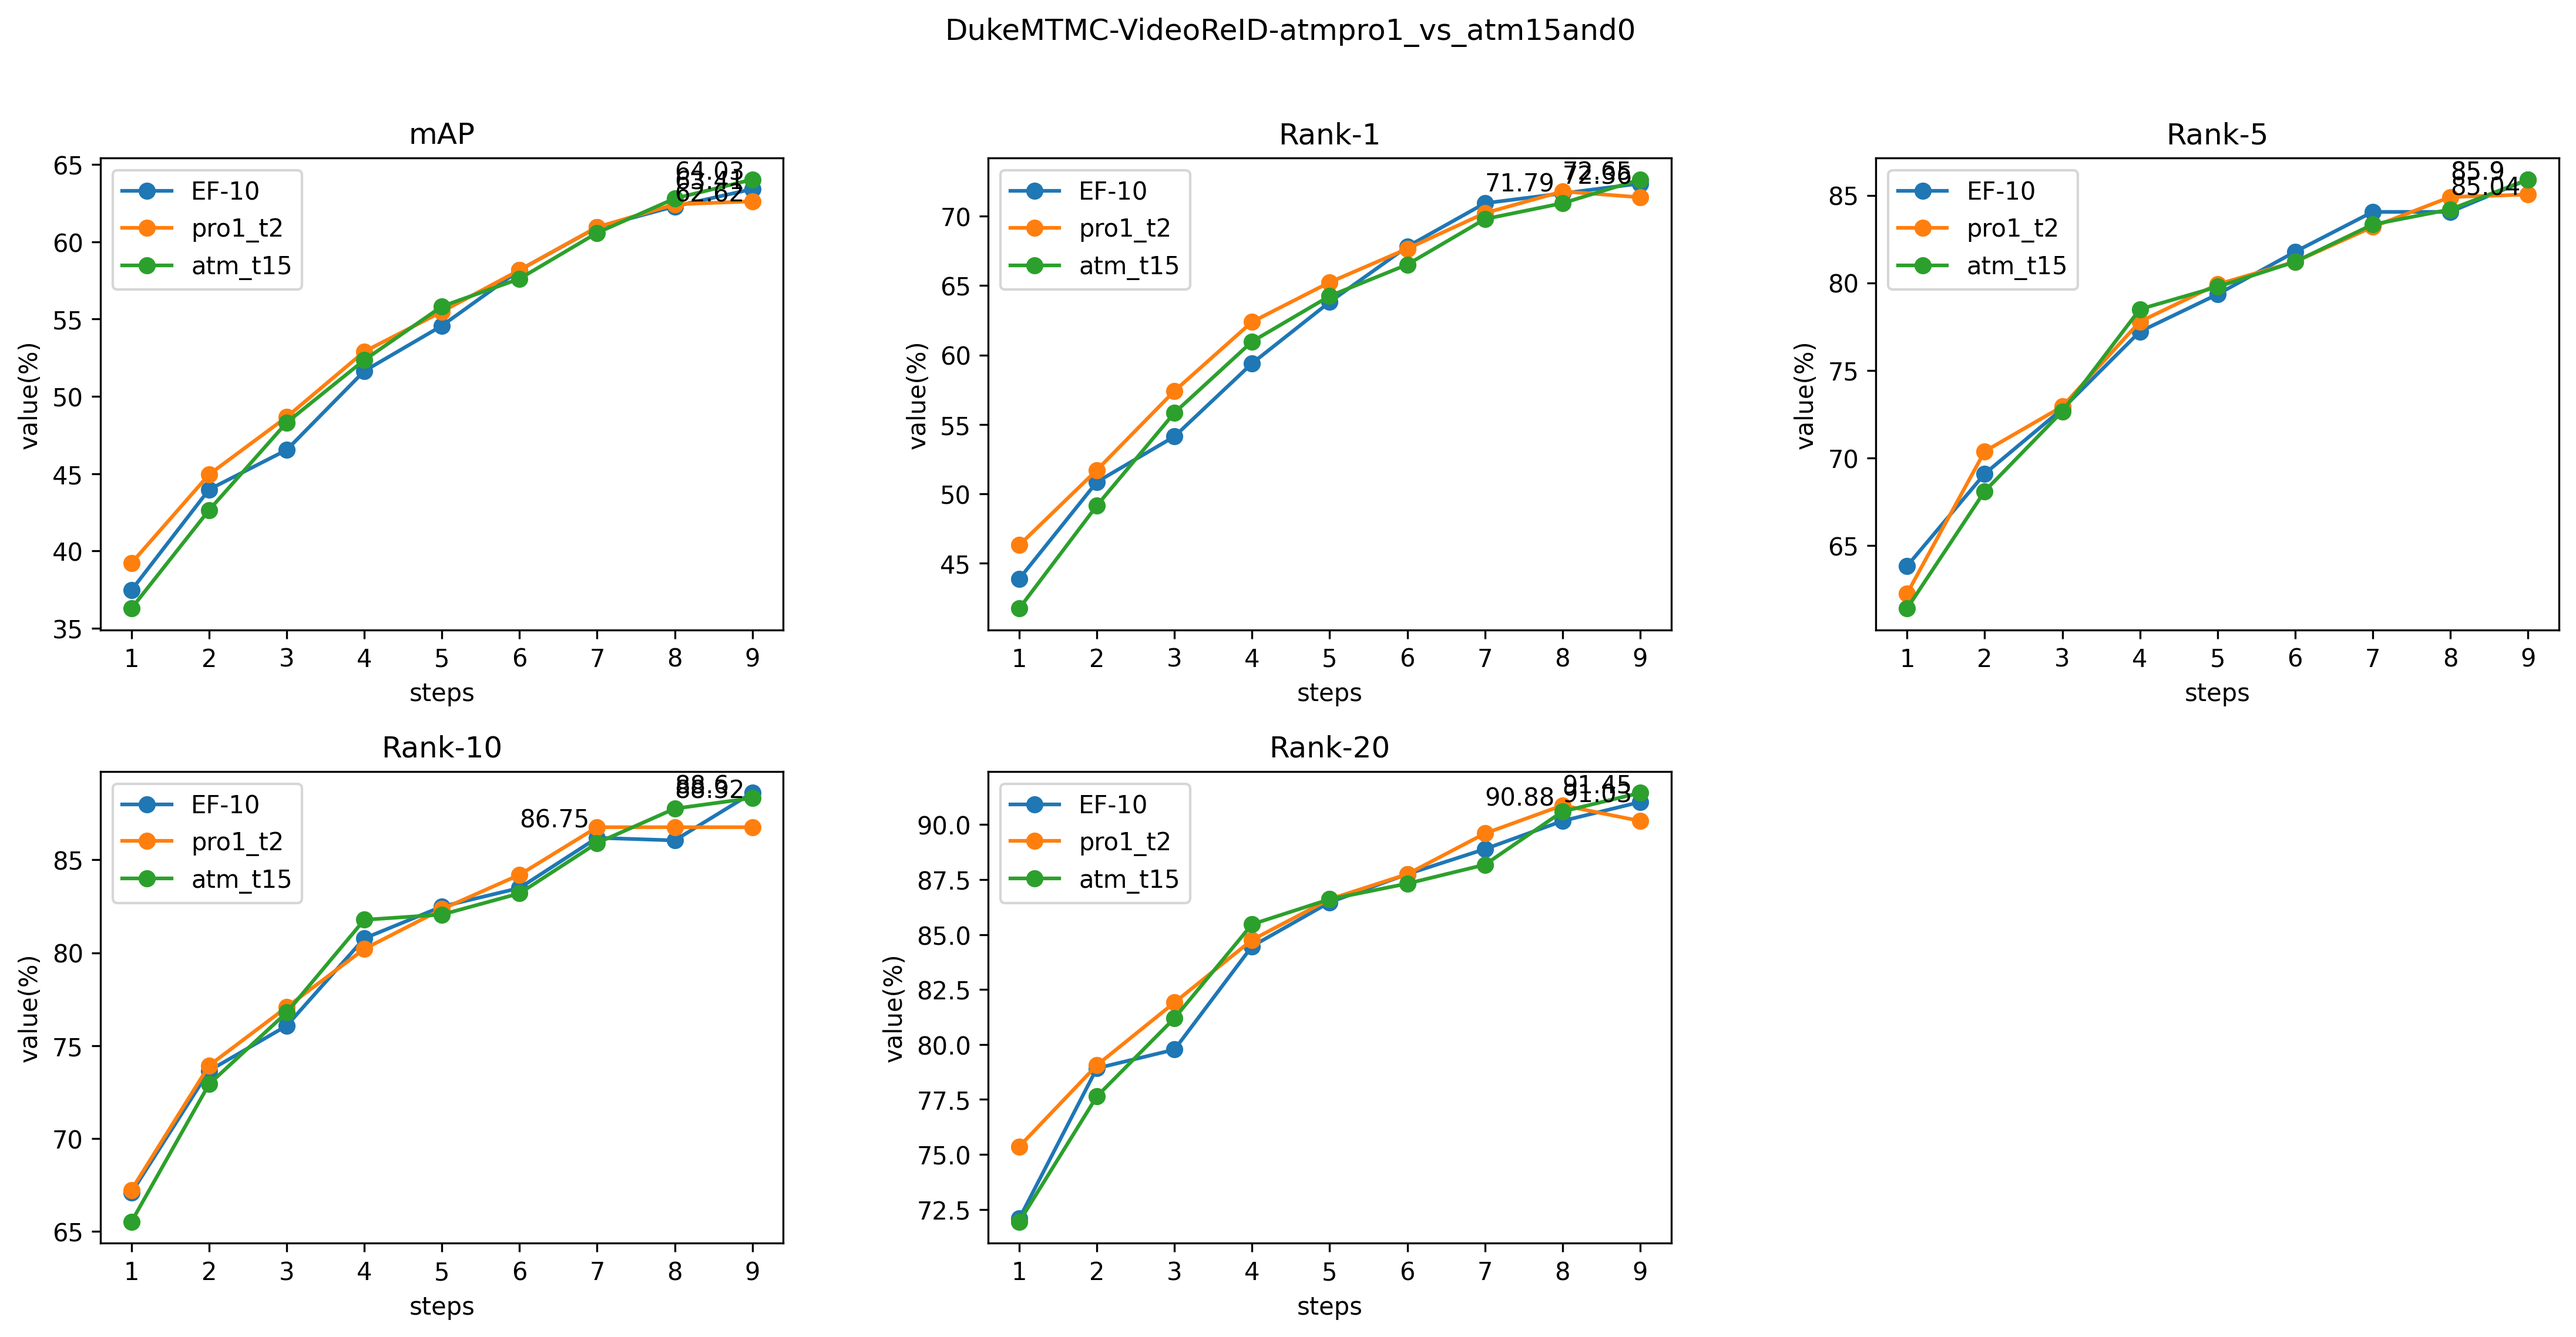
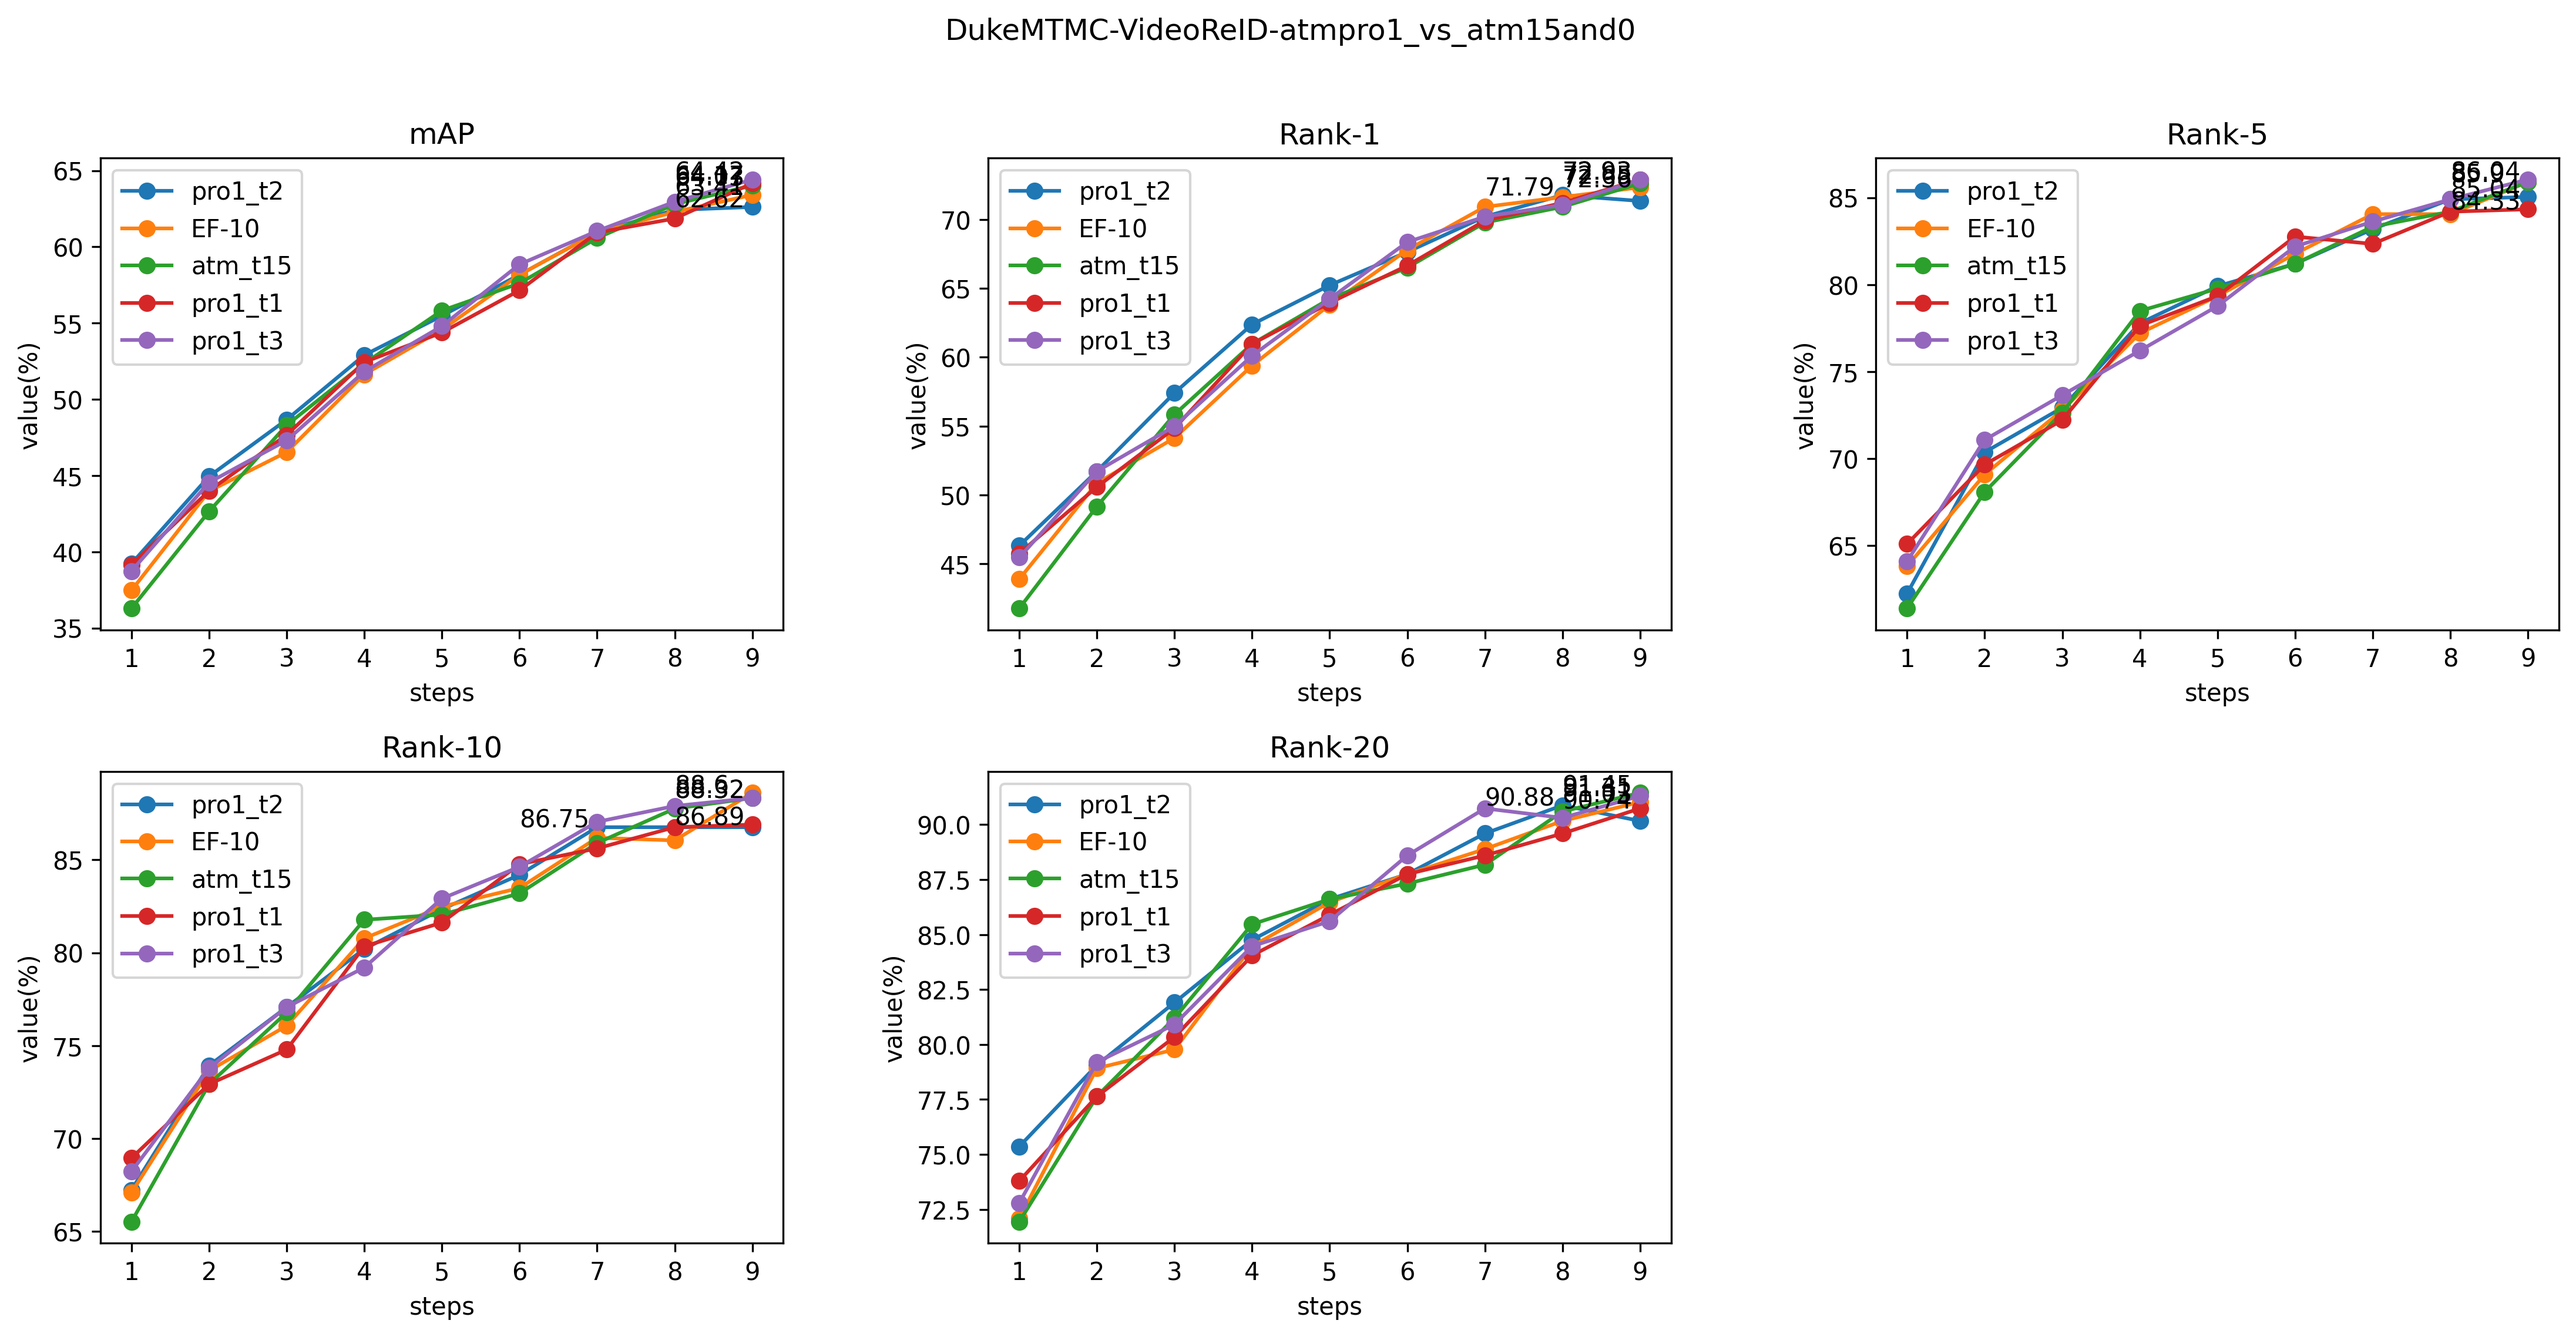
0828

diff --git a/drawer01.py b/drawer01.py
@@ -18,6 +18,7 @@ class drawer01():
         #     self.logs_dir = '/home/joselyn/workspace/ATM_SERIES/'  # 本地跑用这个
         self.compare_path_list = compare_path_list
         self.save_name = save_name
+        # self.names = []
         self.names = [(path.split('/')[-2])+'-tagper' if path.split('/')[-1]=='tagper' else  path.split('/')[-1] for path in self.compare_path_list]
         self.dataset = self.compare_path_list[0].split('/')[0]  # 第一个是数据集.
         self.save_path = osp.join(self.dataset,'figure_out',self.save_name) # 这个是固定不变的
@@ -41,12 +42,19 @@ class drawer01():
         self.dataf = []
         for path in self.compare_path_list:
             file_data = []
+            file = ''
             try:
                 file = open(osp.join(path,'dataf.txt'),'r')
                 seg = [1,3]
             except FileNotFoundError:
-                file = open(osp.join(path,'data.txt'),'r')
-                seg = [6,8]
+                try:
+                    file = open(osp.join(path,'data.txt'),'r')
+                    seg = [6,8]
+                except FileNotFoundError:
+                    # self.names.remove(path.split('/')[-1])
+                    print("the path {} is not found".format(path))
+                    continue
+            print("successfully load the data under the path {}".format(path))
             infos = file.readlines()
             for info in infos:
                 info_f = info.strip('\n').split(' ')[seg[0]:seg[1]]  # 不要第一个 step
@@ -62,7 +70,14 @@ class drawer01():
         for path in self.compare_path_list: # 对每一个实验去数据.
             # path = osp.join(self.logs_dir, path)
             file_data = []
-            file = open(osp.join(path,'data.txt'),'r')
+            file = ''
+            try:
+                file = open(osp.join(path,'data.txt'),'r')
+            except FileNotFoundError:
+                self.names.remove(path.split('/')[-1])
+                print("the path {} is not found".format(path))
+                continue  # 找不到就跳过
+            print("successfully load the data under the path {}".format(path))
             infos = file.readlines()
             for info in infos:
                 info_f = info.strip('\n').split(' ')[1:6]#不要step
@@ -147,23 +162,44 @@ if __name__ =='__main__':
         'atmkf_base_atm':{
             'atm/0',
             'atm/atm_t15',
-            'atm/atmkf_t15'
+            'atm/atmkf_t15',
+            'atm/pro1_t1'
         },
         'atm_vs_tagper':{
             'atm/pro1_t0',
             'atm/pro1_t0/tagper',
         },
         'atmpro1_vs_atm15and0':{
-            'atm/pro1_t0',
+            # 'atm/pro1_t0',
             'atm/pro1_t1',
             'atm/pro1_t2',
-            # 'atm/pro1_t3',
+            'atm/pro1_t3',
+            'atm/atm_t15',
+            'baseline/EF-10'
+        },
+        'atmpro2_C':{
+            'atm/pro2_t15',
+            'atm/pro2_t20',
+            'atm/pro1_t2',
             'atm/atm_t15',
             'atm/0'
+        },
+        'atm_EF10':{
+            'atm/0',
+            'baseline/EF-10',
+            'atm/atm_t15',
+            'atm/pro1_t2',
+            'atm/pro2_t15',
+            'atm/atmkf_t15',
+            'atm/kf2_t15'
+        },
+        'atmkf_C':{
+            'atm/atmkf_t15',
+            'atm/kf2_t15'
         }
     }
     datasets = ['duke','DukeMTMC-VideoReID','market1501','mars']
-    save_name = 'atm_vs_tagper'
+    save_name = 'atmkf_C'
     compare_path = [osp.join(datasets[2],k) for k in analysis[save_name]]
     # compare_path = odatasets[1]
     print(compare_path)

diff --git a/drawer_kf.py b/drawer_kf.py
@@ -57,7 +57,7 @@ class drawer_kf(): #处理单一文件.
             h,w = self.data.shape
             print("h={},w={}".format(h,w))
             self.label_pre = np.array(self.data[:,[0,3]] if w==5 else self.data[:,[0,3,5]])
-            self.select_pre = np.array(self.data[:,[2,4]] if w==5 else self.data[:,[2,4,6]])
+            self.select_pre = np.array(self.data[:,[1,4]] if w==5 else self.data[:,[1,4,6]])
             print(self.label_pre.shape)
             print(self.select_pre.shape)
         else:
@@ -105,5 +105,5 @@ class drawer_kf(): #处理单一文件.
 if __name__ =='__main__':
 
     datasets = ['duke','DukeMTMC-VideoReID','market1501','mars']
-    file_name = 'atm/pro1_t0'
+    file_name = 'atm/pro1_t2'
     D = drawer_kf(file_name,datasets[2])
